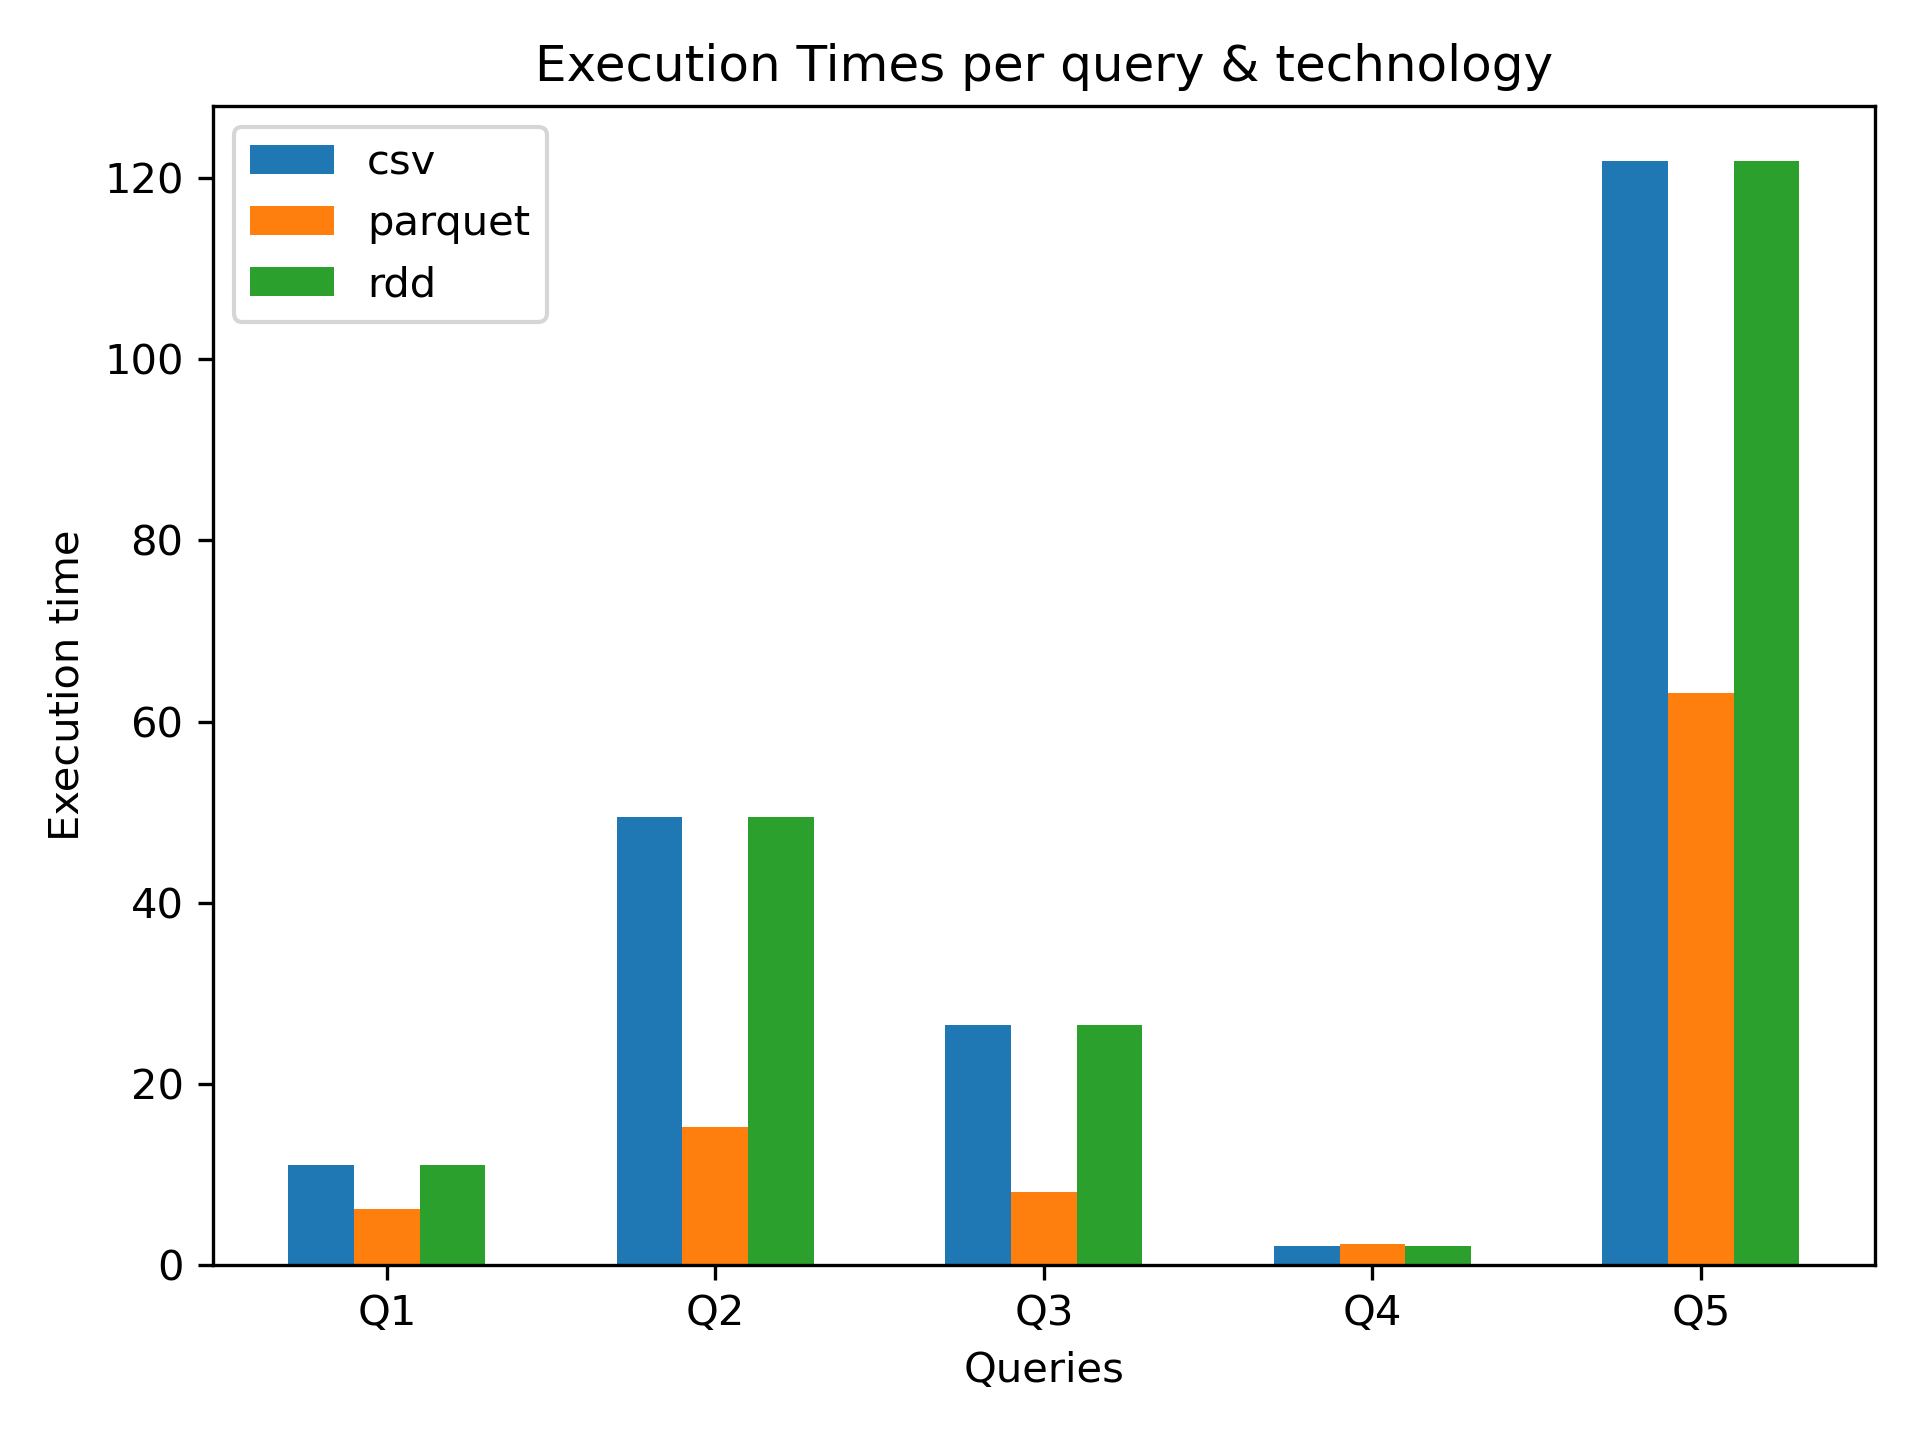
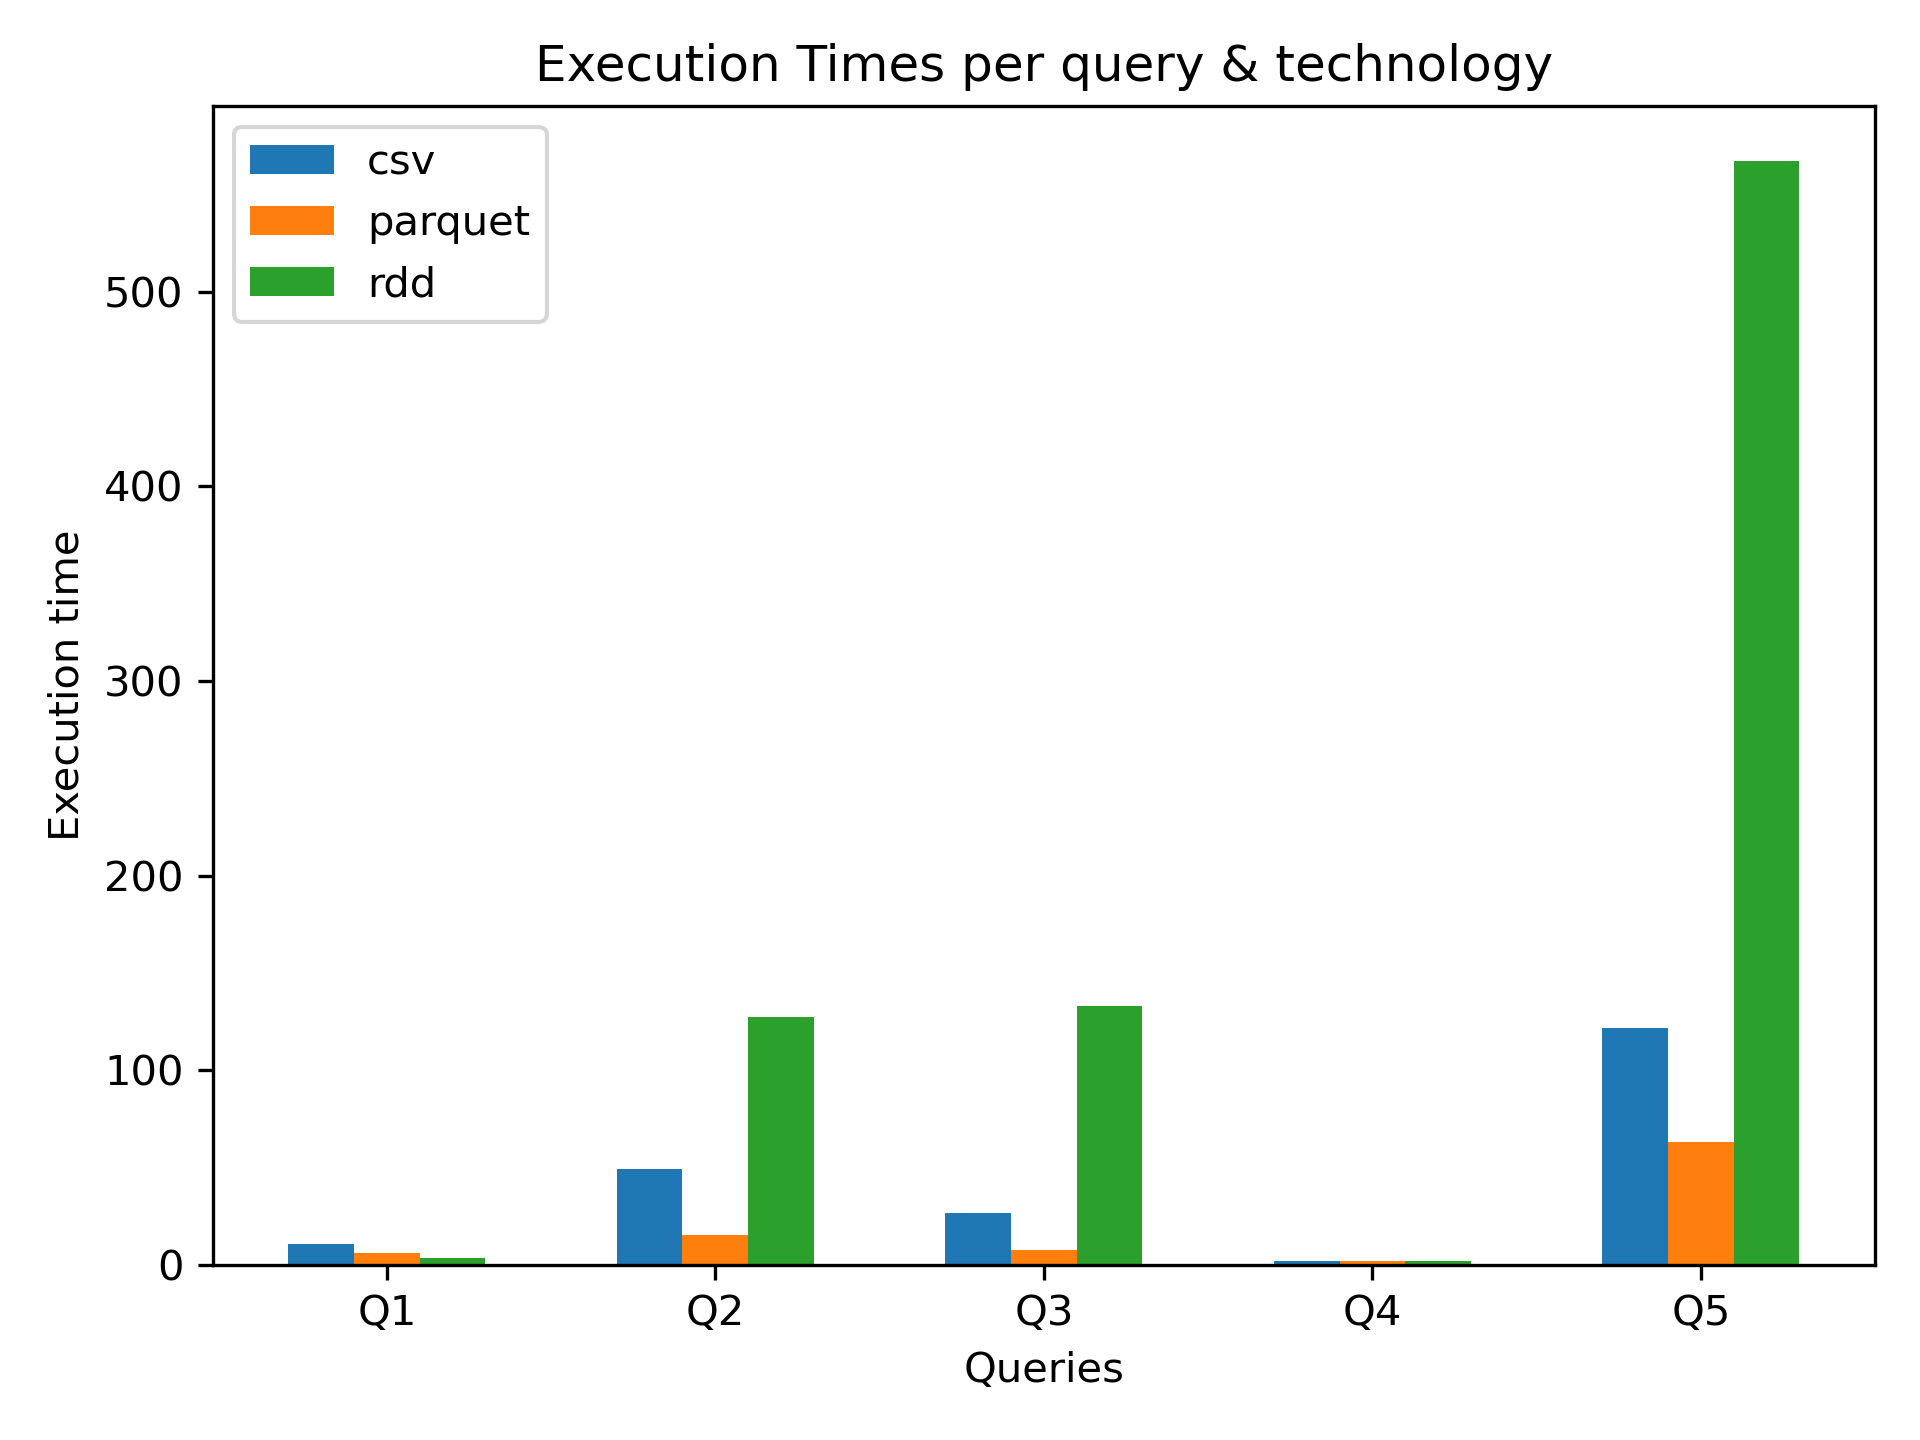
Separate plot for sql queries

diff --git a/src/test_queries.py b/src/test_queries.py
@@ -25,7 +25,7 @@ def plot_results(x1, x2, x3):
     fig, ax = plt.subplots()
     ax.bar(x - width, x1, width, label='csv')
     ax.bar(x, x2, width, label='parquet')
-    ax.bar(x + width, x1, width, label='rdd')
+    ax.bar(x + width, x3, width, label='rdd')
     ax.set_ylabel('Execution time')
     ax.set_xlabel('Queries')
     ax.set_title('Execution Times per query & technology')
@@ -35,6 +35,27 @@ def plot_results(x1, x2, x3):
     fig.tight_layout()
     # Save figure
     plt.savefig("../results/plot.png",dpi=300)
+
+def plot_sql_results(x1, x2):
+
+    labels = ["Q1","Q2","Q3","Q4","Q5"]
+    x = np.arange(len(labels))
+    width = 0.35 
+
+    # Figure
+    fig, ax = plt.subplots()
+    ax.bar(x - width/2, x1, width, label='csv')
+    ax.bar(x + width/2, x2, width, label='parquet')
+    ax.set_ylabel('Execution time')
+    ax.set_xlabel('Queries')
+    ax.set_title('Execution Times per query & technology')
+    ax.set_xticks(x)
+    ax.set_xticklabels(labels)
+    ax.legend()
+    fig.tight_layout()
+    # Save figure
+    plt.savefig("../results/plot_sql.png",dpi=300)
+
 
 if __name__ == "__main__":
 
@@ -72,3 +93,4 @@ if __name__ == "__main__":
         print(*tests["rdd"],file=f)
              
     plot_results(tests["csv"],tests["parquet"],tests["rdd"])
+    plot_sql_results(tests["csv"],tests["parquet"])
